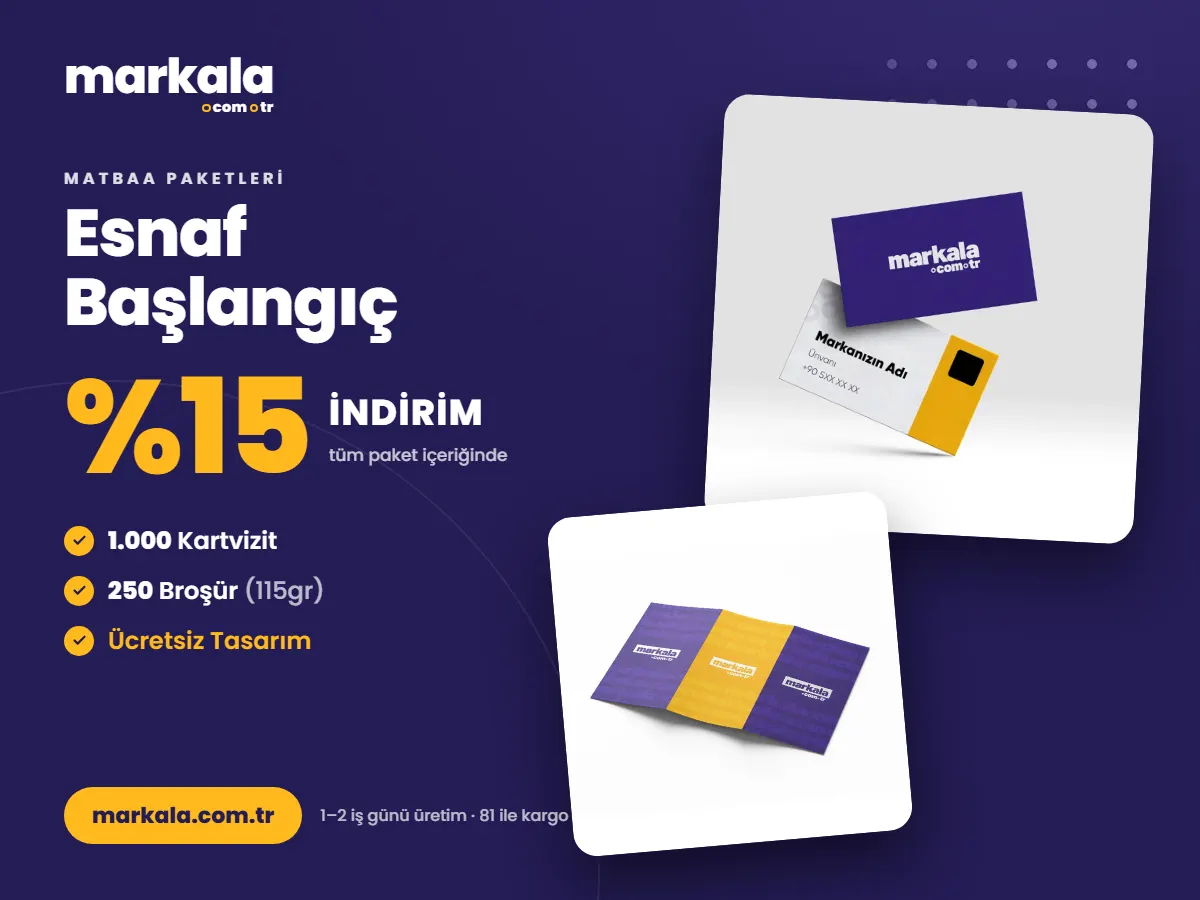
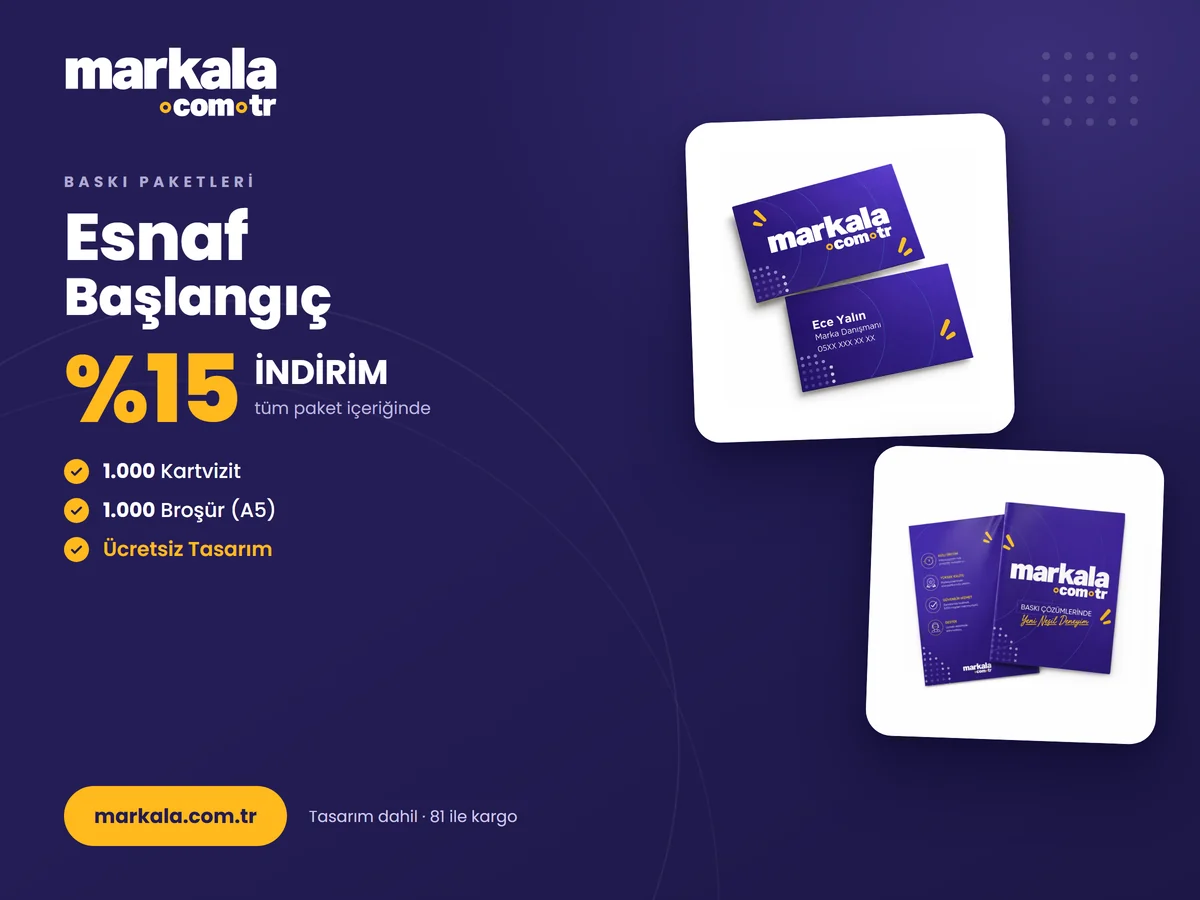
feat(kampanyalar): esnaf/kurumsal/açılış paketlerinin görselleri gerçek fotoğraflarla yenilendi
Üç paketin İÇERİĞİ değişti (bkz. veri tarafı): eski tanımlar SİPARİŞ EDİLEMEYEN adetler
taşıyordu — "250 Broşür" (broşürün en düşük kademesi 1.000) ve "1.000 Antetli Kağıt"
(antetlinin A4'te en düşük kademesi 2.000). Adetler gerçek kademelere çekilince
görsellerdeki yazılar da yanlış kaldı; ayrıca Yeni İşletme kartında "%18 İNDİRİM"
yazıyordu, oysa artık altı paketin de indirimi %15.

Üçü de seçim paketleriyle aynı şablondan, sitedeki gerçek ürün fotoğraflarıyla yeniden
üretildi (kartvizit, antetli kağıt, broşür, roll-up). Dosya adları aynı kaldığı için
BUNDLE_IMAGES'ta sürüm parametresi eklendi/artırıldı — yoksa Next ve Cloudflare eski
kopyayı sunmaya devam ediyor.

scripts/kampanya-gorsel/: şablona üç kart eklendi, antetli fotoğrafı foto/ altına kondu,
çizim ve webp betikleri altı görseli birden üretiyor.

diff --git a/scripts/kampanya-gorsel/sablon.html b/scripts/kampanya-gorsel/sablon.html
@@ -168,5 +168,100 @@
   </div>
 </div>
 
+
+<div class="kart" id="esnaf-baslangic">
+  <div class="kavis"></div><div class="kavis b"></div>
+  <div class="noktalar"><i></i><i></i><i></i><i></i><i></i><i></i><i></i><i></i><i></i><i></i><i></i><i></i><i></i><i></i><i></i><i></i><i></i><i></i><i></i><i></i></div>
+
+  <div class="sol">
+    <img class="logo" src="logo-beyaz.svg" alt="">
+    <div class="eyebrow">BASKI PAKETLERİ</div>
+    <h1>Esnaf<span class="kucuk">Başlangıç</span></h1>
+    <div class="indirim">
+      <div class="oran">%15</div>
+      <div class="yan"><b>İNDİRİM</b><span>tüm paket içeriğinde</span></div>
+    </div>
+    <ul>
+      <li><span class="tik"><svg viewBox="0 0 16 16"><path d="M2.5 8.6l3.4 3.4L13.5 4.4" fill="none" stroke="#231B52" stroke-width="2.6" stroke-linecap="round" stroke-linejoin="round"/></svg></span><span><b>1.000</b> Kartvizit</span></li>
+      <li><span class="tik"><svg viewBox="0 0 16 16"><path d="M2.5 8.6l3.4 3.4L13.5 4.4" fill="none" stroke="#231B52" stroke-width="2.6" stroke-linecap="round" stroke-linejoin="round"/></svg></span><span><b>1.000</b> Broşür (A5)</span></li>
+      <li class="tasarim"><span class="tik"><svg viewBox="0 0 16 16"><path d="M2.5 8.6l3.4 3.4L13.5 4.4" fill="none" stroke="#231B52" stroke-width="2.6" stroke-linecap="round" stroke-linejoin="round"/></svg></span><span>Ücretsiz Tasarım</span></li>
+    </ul>
+  </div>
+
+  <div class="alt">
+    <div class="pill">markala.com.tr</div>
+    <div class="altnot">Tasarım dahil · 81 ile kargo</div>
+  </div>
+
+  <div class="sag">
+    <div class="foto" style="left:110px;top:118px;width:320px;height:320px;transform:rotate(-2deg)"><img src="foto/kartvizit.webp" alt=""></div>
+    <div class="foto" style="left:290px;top:450px;width:290px;height:290px;transform:rotate(2deg)"><img src="foto/brosur.webp" alt=""></div>
+  </div>
+</div>
+
+<div class="kart" id="yeni-isletme">
+  <div class="kavis"></div><div class="kavis b"></div>
+  <div class="noktalar"><i></i><i></i><i></i><i></i><i></i><i></i><i></i><i></i><i></i><i></i><i></i><i></i><i></i><i></i><i></i><i></i><i></i><i></i><i></i><i></i></div>
+
+  <div class="sol">
+    <img class="logo" src="logo-beyaz.svg" alt="">
+    <div class="eyebrow">BASKI PAKETLERİ</div>
+    <h1>Yeni<span class="kucuk">İşletme</span></h1>
+    <div class="indirim">
+      <div class="oran">%15</div>
+      <div class="yan"><b>İNDİRİM</b><span>tüm paket içeriğinde</span></div>
+    </div>
+    <ul>
+      <li><span class="tik"><svg viewBox="0 0 16 16"><path d="M2.5 8.6l3.4 3.4L13.5 4.4" fill="none" stroke="#231B52" stroke-width="2.6" stroke-linecap="round" stroke-linejoin="round"/></svg></span><span><b>1.000</b> Kartvizit</span></li>
+      <li><span class="tik"><svg viewBox="0 0 16 16"><path d="M2.5 8.6l3.4 3.4L13.5 4.4" fill="none" stroke="#231B52" stroke-width="2.6" stroke-linecap="round" stroke-linejoin="round"/></svg></span><span><b>2.000</b> Antetli Kağıt (A4)</span></li>
+      <li><span class="tik"><svg viewBox="0 0 16 16"><path d="M2.5 8.6l3.4 3.4L13.5 4.4" fill="none" stroke="#231B52" stroke-width="2.6" stroke-linecap="round" stroke-linejoin="round"/></svg></span><span><b>1.000</b> Broşür (A5)</span></li>
+      <li class="tasarim"><span class="tik"><svg viewBox="0 0 16 16"><path d="M2.5 8.6l3.4 3.4L13.5 4.4" fill="none" stroke="#231B52" stroke-width="2.6" stroke-linecap="round" stroke-linejoin="round"/></svg></span><span>Ücretsiz Tasarım</span></li>
+    </ul>
+  </div>
+
+  <div class="alt">
+    <div class="pill">markala.com.tr</div>
+    <div class="altnot">Tasarım dahil · 81 ile kargo</div>
+  </div>
+
+  <div class="sag">
+    <div class="foto" style="left:84px;top:96px;width:250px;height:250px;transform:rotate(-2deg)"><img src="foto/kartvizit.webp" alt=""></div>
+    <div class="foto" style="left:344px;top:62px;width:236px;height:236px;transform:rotate(2deg)"><img src="foto/antetli.webp" alt=""></div>
+    <div class="foto" style="left:206px;top:400px;width:268px;height:268px;transform:rotate(2deg)"><img src="foto/brosur.webp" alt=""></div>
+  </div>
+</div>
+
+<div class="kart" id="restoran-acilis">
+  <div class="kavis"></div><div class="kavis b"></div>
+  <div class="noktalar"><i></i><i></i><i></i><i></i><i></i><i></i><i></i><i></i><i></i><i></i><i></i><i></i><i></i><i></i><i></i><i></i><i></i><i></i><i></i><i></i></div>
+
+  <div class="sol">
+    <img class="logo" src="logo-beyaz.svg" alt="">
+    <div class="eyebrow">BASKI PAKETLERİ</div>
+    <h1>Açılış<span class="kucuk">Paketi</span></h1>
+    <div class="indirim">
+      <div class="oran">%15</div>
+      <div class="yan"><b>İNDİRİM</b><span>tüm paket içeriğinde</span></div>
+    </div>
+    <ul>
+      <li><span class="tik"><svg viewBox="0 0 16 16"><path d="M2.5 8.6l3.4 3.4L13.5 4.4" fill="none" stroke="#231B52" stroke-width="2.6" stroke-linecap="round" stroke-linejoin="round"/></svg></span><span><b>1</b> Roll-Up (85×200 cm)</span></li>
+      <li><span class="tik"><svg viewBox="0 0 16 16"><path d="M2.5 8.6l3.4 3.4L13.5 4.4" fill="none" stroke="#231B52" stroke-width="2.6" stroke-linecap="round" stroke-linejoin="round"/></svg></span><span><b>1.000</b> Kartvizit</span></li>
+      <li><span class="tik"><svg viewBox="0 0 16 16"><path d="M2.5 8.6l3.4 3.4L13.5 4.4" fill="none" stroke="#231B52" stroke-width="2.6" stroke-linecap="round" stroke-linejoin="round"/></svg></span><span><b>1.000</b> Broşür (A5)</span></li>
+      <li class="tasarim"><span class="tik"><svg viewBox="0 0 16 16"><path d="M2.5 8.6l3.4 3.4L13.5 4.4" fill="none" stroke="#231B52" stroke-width="2.6" stroke-linecap="round" stroke-linejoin="round"/></svg></span><span>Ücretsiz Tasarım</span></li>
+    </ul>
+  </div>
+
+  <div class="alt">
+    <div class="pill">markala.com.tr</div>
+    <div class="altnot">Tasarım dahil · 81 ile kargo</div>
+  </div>
+
+  <div class="sag">
+    <div class="foto" style="left:96px;top:70px;width:250px;height:250px;transform:rotate(-2deg)"><img src="foto/rollup.webp" alt=""></div>
+    <div class="foto" style="left:352px;top:64px;width:232px;height:232px;transform:rotate(2deg)"><img src="foto/kartvizit.webp" alt=""></div>
+    <div class="foto" style="left:200px;top:396px;width:264px;height:264px;transform:rotate(2deg)"><img src="foto/brosur.webp" alt=""></div>
+  </div>
+</div>
+
 </body>
 </html>

diff --git a/apps/web/src/app/api/kampanyalar/route.ts b/apps/web/src/app/api/kampanyalar/route.ts
@@ -16,16 +16,18 @@ const CATS = ["esnaf", "kurumsal", "etkinlik", "acilis", "promosyon", "secim"];
  * Haritada olmayan paketler kategori bazlı /api/mockup fallback'ine düşer (eski davranış).
  */
 const BUNDLE_IMAGES: Record<string, string> = {
-  "restoran-acilis": "/images/kampanyalar/restoran-acilis.webp",
-  "esnaf-baslangic": "/images/kampanyalar/esnaf-baslangic.webp",
-  "yeni-isletme": "/images/kampanyalar/yeni-isletme.webp",
+  // 2026-10-09: üçü de gerçek ürün fotoğraflarıyla yeniden çizildi — eski görseller
+  // artık satılmayan adetleri ("250 Broşür") ve %18 indirimi yazıyordu.
+  "restoran-acilis": "/images/kampanyalar/restoran-acilis.webp?v=2",
+  "esnaf-baslangic": "/images/kampanyalar/esnaf-baslangic.webp?v=2",
+  "yeni-isletme": "/images/kampanyalar/yeni-isletme.webp?v=2",
   // Seçim paketleri (2026-10-09) — kaynak: scripts/kampanya-gorsel/sablon.html
   // ?v= ZORUNLU: aynı dosya adıyla görsel değiştirince hem /_next/image hem Cloudflare
   // eski kopyayı sunuyor (9 Eki, vektör → fotoğraf geçişinde birebir yaşandı). Görseli
   // yenileyen sürümü de artırsın. Ürün görsellerinde de aynı desen kullanılıyor.
-  "secim-paketi-az": "/images/kampanyalar/secim-paketi-az.webp?v=2",
-  "secim-paketi-orta": "/images/kampanyalar/secim-paketi-orta.webp?v=2",
-  "secim-paketi-fazla": "/images/kampanyalar/secim-paketi-fazla.webp?v=2",
+  "secim-paketi-az": "/images/kampanyalar/secim-paketi-az.webp?v=3",
+  "secim-paketi-orta": "/images/kampanyalar/secim-paketi-orta.webp?v=3",
+  "secim-paketi-fazla": "/images/kampanyalar/secim-paketi-fazla.webp?v=3",
 };
 
 /**
